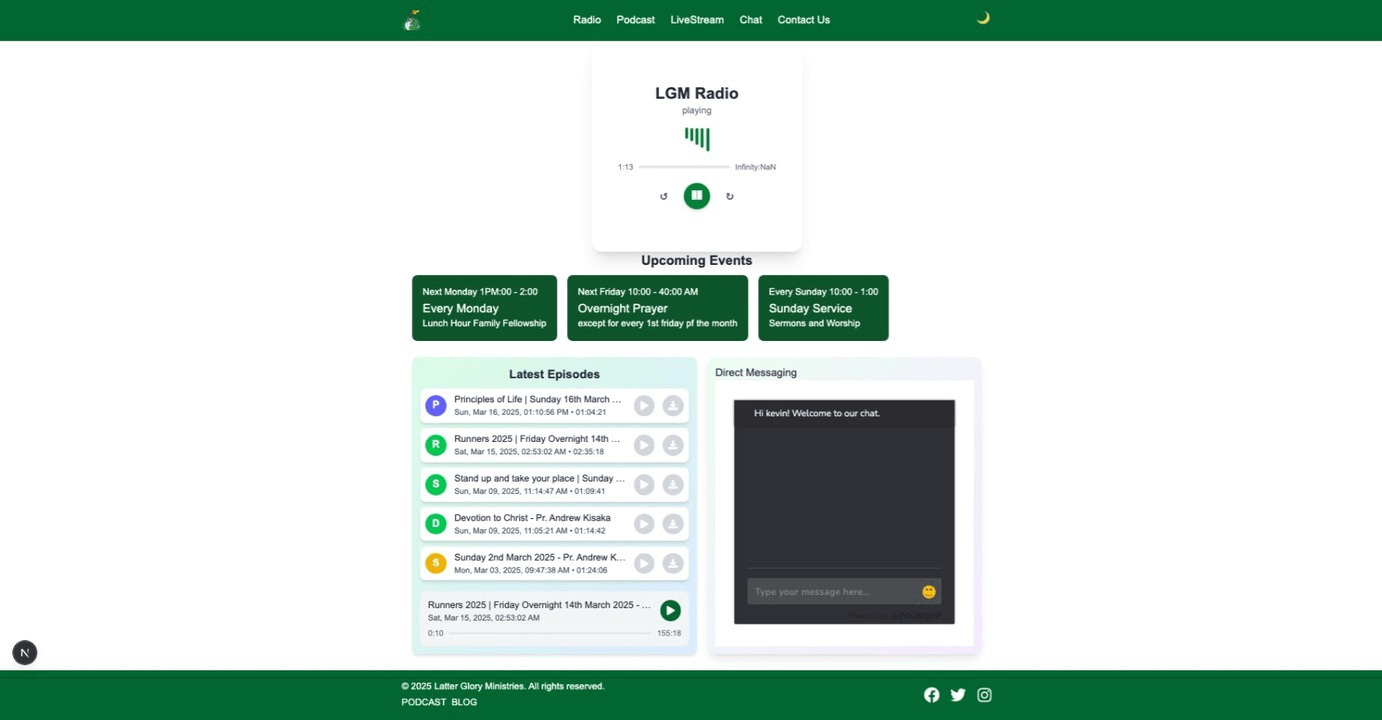
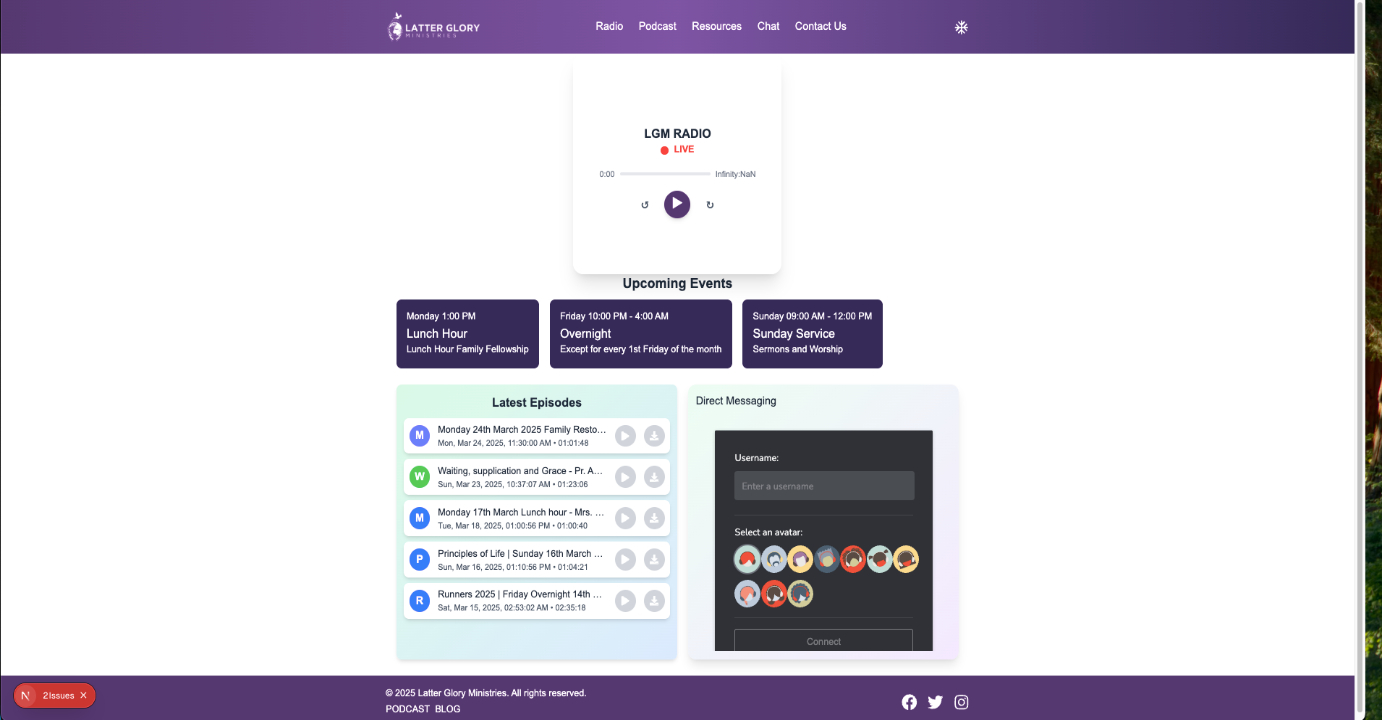
Fix build error by ensuring /api/contact is an API route, not a page

Changed region(s): [[0.0, 0.0, 1.0, 1.0], [0.4356, 0.1222, 0.5601, 0.3056]]

diff --git a/src/app/contact/page.tsx b/src/app/contact/page.tsx
@@ -3,7 +3,7 @@
 
 import { useState, FormEvent } from "react";
 import dynamic from "next/dynamic";
-import { toast } from "react-toastify"; // Import the toast function
+import { toast } from "react-toastify";
 import Footer from "../../components/Footer";
 import UpcomingEvents from "../../components/UpcomingEvents";
 import BottomNav from "../../components/BottomNav";
@@ -68,14 +68,14 @@ export default function Contact() {
 
       {/* Main Content */}
       <div className="max-w-4xl mx-auto w-full flex-1 flex flex-col px-4 py-8">
-        <h1 className="text-3xl font-bold text-center mb-8"></h1>
+        {/* <h1 className="text-3xl font-bold text-center mb-8">Contact Us</h1> */}
 
-        {/* Contact Form and Map */}
+        {/* Contact Form and Locations */}
         <div className="flex flex-col md:flex-row gap-8">
           {/* Contact Form */}
           <div className="w-full md:w-1/2">
+            <h2 className="text-xl font-semibold mb-4">Get in Touch</h2>
             <form onSubmit={handleSubmit} className="space-y-6">
-              {/* Name */}
               <div>
                 <label htmlFor="name" className="block text-sm font-medium mb-1">
                   Your Name
@@ -92,11 +92,9 @@ export default function Contact() {
                   }`}
                   placeholder="Enter your name"
                   required
-                  disabled={formStatus === "submitting"} // Disable input while submitting
+                  disabled={formStatus === "submitting"}
                 />
               </div>
-
-              {/* Email or Phone Number */}
               <div>
                 <label htmlFor="contactInfo" className="block text-sm font-medium mb-1">
                   Email or Phone Number
@@ -108,16 +106,14 @@ export default function Contact() {
                   onChange={(e) => setContactInfo(e.target.value)}
                   className={`w-full p-3 border rounded-lg focus:outline-none focus:ring-2 focus:ring-green-800 ${
                     isDarkMode
-                      ? "bg-gray-700 border-gray-600 text-gray-200"
+                      ? "bg-gray-700 bg-gray-600 text-gray-200"
                       : "bg-white border-gray-300 text-gray-800"
                   }`}
                   placeholder="Enter your email or phone number"
                   required
-                  disabled={formStatus === "submitting"} // Disable input while submitting
+                  disabled={formStatus === "submitting"}
                 />
               </div>
-
-              {/* Message */}
               <div>
                 <label htmlFor="message" className="block text-sm font-medium mb-1">
                   Message
@@ -133,11 +129,9 @@ export default function Contact() {
                   }`}
                   placeholder="Enter your message"
                   required
-                  disabled={formStatus === "submitting"} // Disable input while submitting
+                  disabled={formStatus === "submitting"}
                 />
               </div>
-
-              {/* Submit Button with Progress Indicator */}
               <div className="relative">
                 <button
                   type="submit"
@@ -175,34 +169,64 @@ export default function Contact() {
                   </div>
                 )}
               </div>
-
-              {/* Form Status Messages (Optional, since we're using toasts) */}
-              {/* You can remove these if you prefer to rely solely on toasts */}
-              {formStatus === "success" && (
-                <p className="text-white text-center">Message sent successfully!</p>
-              )}
-              {formStatus === "error" && (
-                <p className="text-red-500 text-center">Failed to send message. Please try again.</p>
-              )}
             </form>
           </div>
-
-          {/* Google Map */}
+          {/* Church Locations */}
           <div className="w-full md:w-1/2">
-            <h2 className="text-xl font-semibold mb-4">Our Location</h2>
-            <div className="w-full h-64 md:h-96 rounded-lg overflow-hidden shadow-md">
-              <iframe
-                src="https://www.google.com/maps/embed?pb=!1m14!1m8!1m3!1d127672.6584351763!2d32.4859279!3d0.2802993!3m2!1i1024!2i768!4f13.1!3m3!1m2!1s0x177dbb003aee23f9%3A0x69bdecfa2733ba30!2sLATTER%20GLORY%20CHURCH%20KISAASI%20KAMPALA%20UG!5e0!3m2!1sen!2sug!4v1742403898547!5m2!1sen!2sug"
-                width="100%"
-                height="100%"
-                style={{ border: 0 }}
-                allowFullScreen
-                loading="lazy"
-                referrerPolicy="no-referrer-when-downgrade"
-              />
+            <h2 className="text-xl font-semibold mb-4">Our Church Locations</h2>
+            <div className="space-y-6">
+              {/* Rubaga (Main Church) */}
+              <div className="p-4 bg-gray-100 dark:[#320958] rounded-lg shadow-md">
+                <h3 className="text-lg font-bold text-[#320958] dark:text-[#790DA3]">Rubaga (Main Church)</h3>
+                <p><strong>Location:</strong> Kabuusu, Rubaga</p>
+                <p><strong>Service Times:</strong> Sunday 9:00 AM - 12:00 PM</p>
+                <p><strong>Contact:</strong> +256 782 664 592</p>
+                <a
+                  href="https://www.google.com/maps/place/faith+family+church/@0.2976623,32.5476881,17z/data=!3m1!4b1!4m6!3m5!1s0x177dbcc6e6400001:0xec025891350a6e8c!8m2!3d0.2976623!4d32.5525644!16s%2Fg%2F11txmzl0rp?entry=ttu&g_ep=EgoyMDI1MDMyMy4wIKXMDSoASAFQAw%3D%3D"
+                  target="_blank"
+                  rel="noopener noreferrer"
+                  className="text-[#320958] hover:text-[#790DA3] underline"
+                >
+                  View on Map
+                </a>
+              </div>
+
+              {/* Ntinda */}
+              <div className="p-4 bg-gray-100 dark:[#320958]rounded-lg shadow-md">
+                <h3 className="text-lg font-bold text-[#320958] dark:text-[#790DA3]">Ntinda</h3>
+                <p><strong>Location:</strong> Meet at Eliana Hotel, Ntinda</p>
+                <p><strong>Service Times:</strong> Sunday 8:00 AM - 9:30 AM</p>
+                <p><strong>Contact:</strong> +256 703 648 648</p>
+                <a
+                  href="https://www.google.com/maps/search/?api=1&query=Eliana+Hotel,+Ntinda,+Kampala,+Uganda"
+                  target="_blank"
+                  rel="noopener noreferrer"
+                  className="text-[#320958] hover:text-[#790DA3] underline"
+                >
+                  View on Map
+                </a>
+              </div>
+
+              {/* Nakawuka */}
+              <div className="p-4 bg-gray-100 dark:[#320958] rounded-lg shadow-md">
+                <h3 className="text-lg font-bold text-[#320958] dark:text-[#790DA3]">Nakawuka</h3>
+                <p><strong>Location:</strong> Meet at The Adrace Resort, Nakawuka</p>
+                <p><strong>Service Times:</strong> Sunday 8:00 AM - 10:00 AM</p>
+                <p><strong>Contact:</strong> +256 700 321 048</p>
+                <a
+                  href="https://www.google.com/maps/place/The+Adrace+Executive+Resort/@0.1906182,32.4555223,17z/data=!3m1!4b1!4m6!3m5!1s0x177d99e9d1ec0319:0xaa7726d8b73aaa5e!8m2!3d0.1906182!4d32.4581026!16s%2Fg%2F11j13k0dxv?entry=ttu&g_ep=EgoyMDI1MDMyMy4wIKXMDSoASAFQAw%3D%3D"
+                  target="_blank"
+                  rel="noopener noreferrer"
+                  className="text-[#320958] hover:text-[#790DA3] underline"
+                >
+                  View on Map
+                </a>
+              </div>
             </div>
           </div>
         </div>
+
+        {/* Upcoming Events */}
         <UpcomingEvents />
       </div>
 

diff --git a/src/app/resources/page.tsx b/src/app/resources/page.tsx
@@ -10,7 +10,7 @@ export default function Livestream() {
   const [isDarkMode, setIsDarkMode] = useState(false);
 
   const youtubeChannelUrl = "https://www.youtube.com/@lattergloryministries3882";
-  const websiteUrl = "https://www.latterglory.ug";
+  const websiteUrl = "https://latterglory.ug";
   const prayerMeetUrl = "https://meet.google.com/hij-city-pev";
 
   // Toggle dark mode
@@ -93,7 +93,7 @@ export default function Livestream() {
           <div className="bg-white p-6 rounded-lg shadow-md">
             <h2 className="text-2xl font-semibold flex items-center justify-center mb-4">
               <FaPray className="mr-2 text-green-500" />
-              Join Our Monday Morning Prayer
+              Command Your Week
             </h2>
             <p className={`mt-2 ${isDarkMode ? "text-gray-400" : "text-gray-600"}`}>
             Let&apos;s command our week every Monday from <b>4:30 AM - 5:15 AM </b>

diff --git a/src/app/layout.tsx b/src/app/layout.tsx
@@ -33,13 +33,10 @@ export default function RootLayout({ children }: { children: React.ReactNode }) 
     <html lang="en">
       <head>
         {/* PWA Meta Tags */}
-        <meta name="apple-mobile-web-app-capable" content="yes" />
-        <meta name="apple-mobile-web-app-status-bar-style" content="default" />
-        <meta name="apple-mobile-web-app-title" content="Christian Radio" />
-        <meta name="mobile-web-app-capable" content="yes" />
+        {/* Link to the manifest */}
+        <link rel="manifest" href="/manifest.json" />
+        {/* Theme color matching your manifest */}
         <meta name="theme-color" content="#000000" />
-        {/* <link rel="apple-touch-icon" href="/icon-192x192.png" />
-        <link rel="icon" href="/favicon.ico" /> */}
       </head>
       <body>
       {children}

diff --git a/src/app/api/events/route.ts b/src/app/api/events/route.ts
@@ -20,9 +20,15 @@ export async function GET() {
           {
             name: "Sunday Service",
             description: "Sermons and Worship",
-            time: "10:00 AM - 1:00 PM",
+            time: "09:00 AM - 12:00 PM",
             date: "Sunday",
-          }
+          },
+          // {
+          //   name: "Prayer",
+          //   description: "Prayer",
+          //   time: "09:00 AM - 10:00 PM",
+          //   date: "Sunday",
+          // }
     ];
 
     return NextResponse.json(events, { status: 200 });
